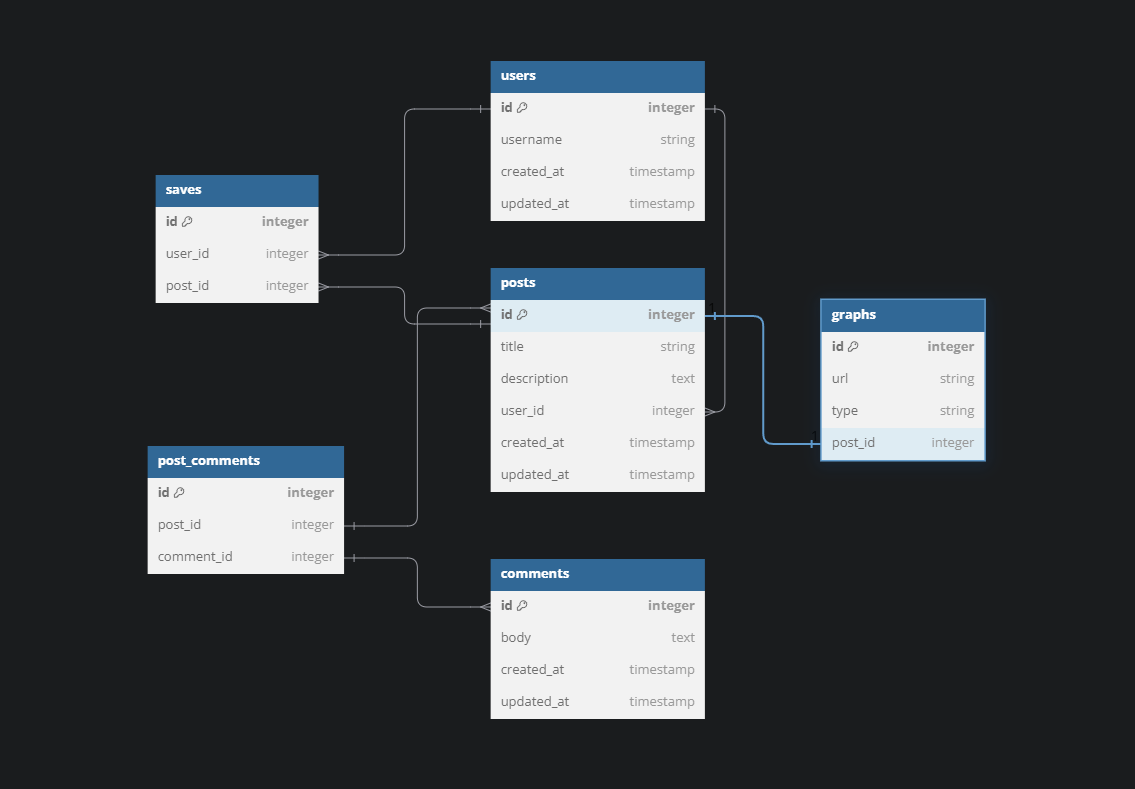
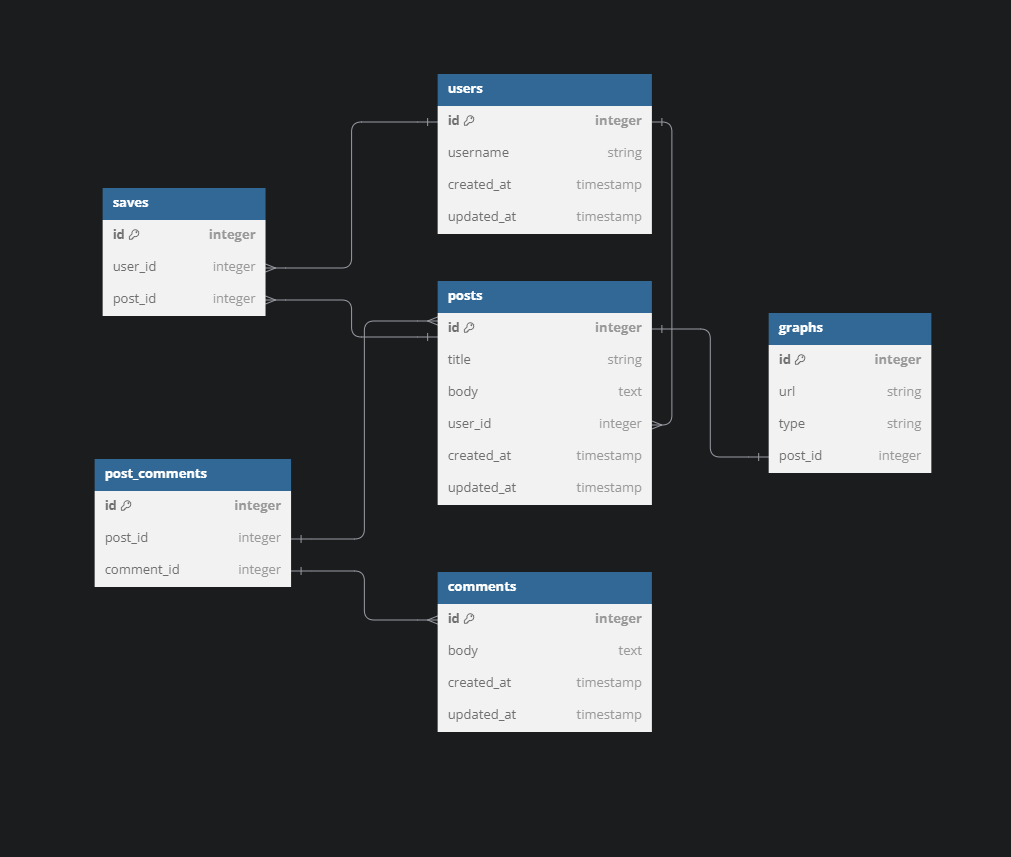
fixed models fr this time

diff --git a/app/models/user.py b/app/models/user.py
@@ -1,18 +1,22 @@
-from .db import db, environment, SCHEMA, add_prefix_for_prod
-from werkzeug.security import generate_password_hash, check_password_hash
 from flask_login import UserMixin
+from werkzeug.security import generate_password_hash, check_password_hash
+
+from .db import db, environment, SCHEMA
 
 
 class User(db.Model, UserMixin):
-    __tablename__ = 'users'
+    __tablename__ = "users"
 
     if environment == "production":
-        __table_args__ = {'schema': SCHEMA}
+        __table_args__ = {"schema": SCHEMA}
 
     id = db.Column(db.Integer, primary_key=True)
     username = db.Column(db.String(40), nullable=False, unique=True)
     email = db.Column(db.String(255), nullable=False, unique=True)
     hashed_password = db.Column(db.String(255), nullable=False)
+
+    posts = db.relationship("Post", back_populates="user")
+    saves = db.relationship("Save", back_populates="user")
 
     @property
     def password(self):
@@ -26,8 +30,4 @@ class User(db.Model, UserMixin):
         return check_password_hash(self.password, password)
 
     def to_dict(self):
-        return {
-            'id': self.id,
-            'username': self.username,
-            'email': self.email
-        }
+        return {"id": self.id, "username": self.username, "email": self.email}

diff --git a/app/models/post.py b/app/models/post.py
@@ -1,6 +1,5 @@
 from datetime import datetime
 
-from . import PostComment
 from .db import db, environment, SCHEMA, add_prefix_for_prod
 
 
@@ -19,6 +18,10 @@ class Post(db.Model):
     created_at = db.Column(db.DateTime, default=datetime.now())
     updated_at = db.Column(db.DateTime, onupdate=datetime.now())
 
-    comments = db.relationship("Comment", secondary=PostComment, back_populates="posts")
-    graph = db.relationship("Graph", back_populates="post", uselist=False)
+    user = db.relationship("User", back_populates="posts")
+    # uselist=False because this relationship is one-to-one
+    graph = db.relationship("Graph", uselist=False, back_populates="post")
     saves = db.relationship("Save", back_populates="post")
+    comments = db.relationship(
+        "Comment", secondary="post_comments", back_populates="posts"
+    )

diff --git a/app/models/comment.py b/app/models/comment.py
@@ -1,6 +1,5 @@
 from datetime import datetime
 
-from . import PostComment
 from .db import db, environment, SCHEMA
 
 
@@ -15,4 +14,6 @@ class Comment(db.Model):
     created_at = db.Column(db.DateTime, default=datetime.now())
     updated_at = db.Column(db.DateTime, onupdate=datetime.now())
 
-    posts = db.relationship("Post", secondary=PostComment, back_populates="comments")
+    posts = db.relationship(
+        "Post", secondary="post_comments", back_populates="comments"
+    )

diff --git a/app/models/__init__.py b/app/models/__init__.py
@@ -1,8 +1,7 @@
+from .db import db, environment, SCHEMA
+from .post_comment import PostComment
 from .comment import Comment
-from .db import db
-from .db import environment, SCHEMA
 from .graph import Graph
 from .post import Post
-from .post_comment import PostComment
 from .save import Save
 from .user import User

diff --git a/app/models/db.py b/app/models/db.py
@@ -1,11 +1,13 @@
+import os
+
 from flask_sqlalchemy import SQLAlchemy
 
-import os
 environment = os.getenv("FLASK_ENV")
 SCHEMA = os.environ.get("SCHEMA")
 
 
 db = SQLAlchemy()
+
 
 # helper function for adding prefix to foreign key column references in production
 def add_prefix_for_prod(attr):

diff --git a/app/models/save.py b/app/models/save.py
@@ -14,3 +14,6 @@ class Save(db.Model):
     post_id = db.Column(
         db.Integer, db.ForeignKey(add_prefix_for_prod("posts.id")), nullable=False
     )
+
+    user = db.relationship("User", back_populates="saves")
+    post = db.relationship("Post", back_populates="saves")

diff --git a/app/models/graph.py b/app/models/graph.py
@@ -16,3 +16,5 @@ class Graph(db.Model):
         nullable=False,
         unique=True,
     )
+
+    post = db.relationship("Post", back_populates="graph")
